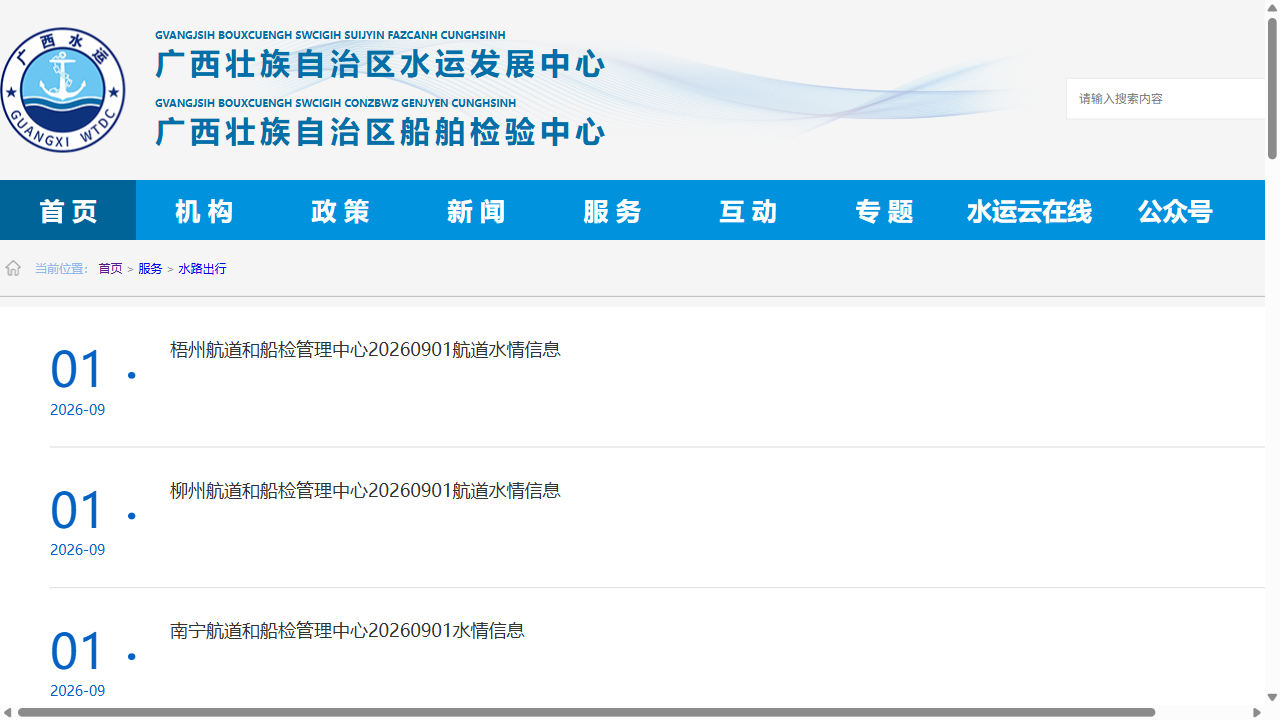
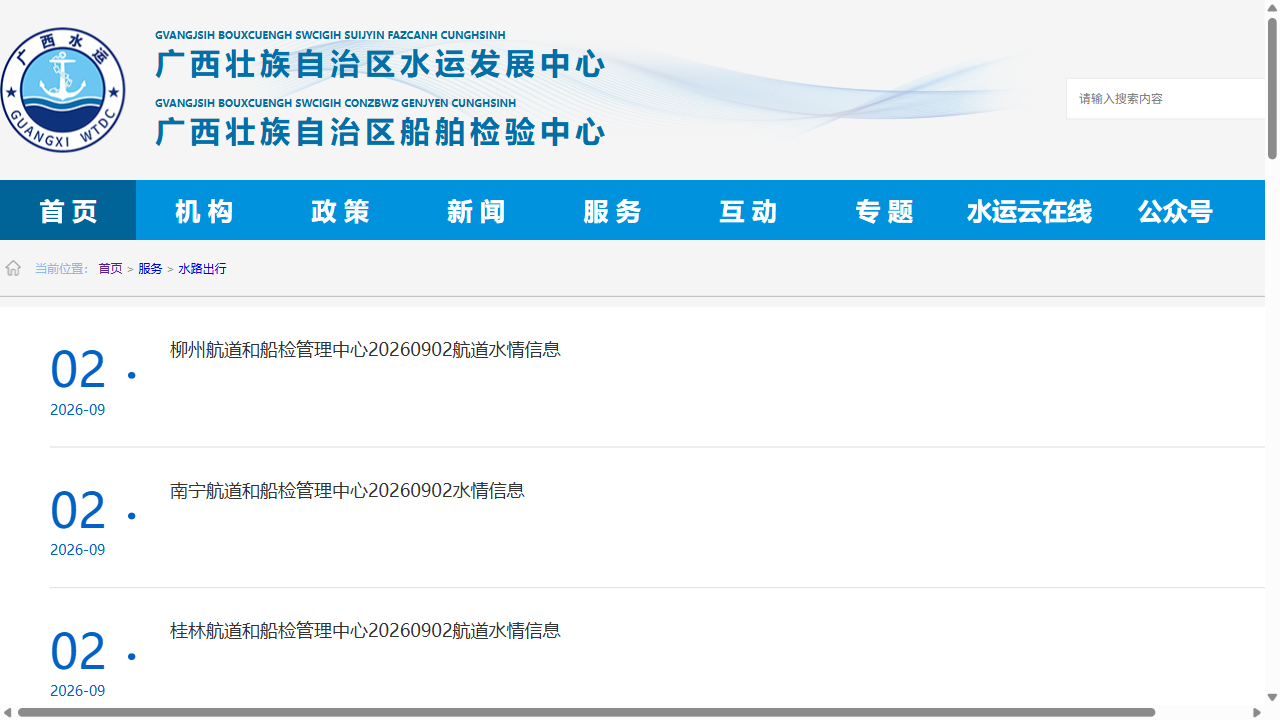
数据层面将水位上升下降情况标记为1与0，方便后续进行统计预测

diff --git a/water_level_report.html b/water_level_report.html
@@ -67,7 +67,7 @@
 </head>
 <body>
     <div class="container">
-        <h1>广西壮族自治区水位数据可视化报告</h1>
+        <h1>西江流域水位数据可视化报告</h1>
         
         <div class="chart-section">
             <div class="chart-container">
@@ -92,6 +92,16 @@
                 <tbody>
 
                     <tr>
+                        <td>2026-08-31 08:00</td>
+                        <td>12.81</td>
+                        <td>27.08</td>
+                        <td>44.254</td>
+                        <td>59.09</td>
+                        <td>59.94</td>
+                        <td>64.242</td>
+                    </tr>
+
+                    <tr>
                         <td>2026-09-01 08:00</td>
                         <td>12.72</td>
                         <td>26.32</td>
@@ -101,13 +111,23 @@
                         <td>62.939</td>
                     </tr>
 
+                    <tr>
+                        <td>2026-09-02 8:00</td>
+                        <td>11.36</td>
+                        <td>24.43</td>
+                        <td>36.88</td>
+                        <td>58.48</td>
+                        <td>59.13</td>
+                        <td>62.306</td>
+                    </tr>
+
                 </tbody>
             </table>
         </div>
         
         <div class="timestamp">
-            报告生成时间: 2026-09-01 16:48:28<br>
-            数据记录数: 1 条
+            报告生成时间: 2026-09-02 10:46:10<br>
+            数据记录数: 3 条
         </div>
     </div>
     
@@ -116,11 +136,11 @@
         new Chart(ctx, {
             type: 'line',
             data: {
-                labels: ["2026-09-01 08:00"],
+                labels: ["2026-08-31 08:00", "2026-09-01 08:00", "2026-09-02 8:00"],
                 datasets: [
                 {
                     label: '梧州',
-                    data: [12.72],
+                    data: [12.81, 12.72, 11.36],
                     borderColor: 'rgb(255, 99, 132)',
                     backgroundColor: 'rgb(255, 99, 132)',
                     tension: 0.1,
@@ -128,7 +148,7 @@
                 },
                 {
                     label: '江口',
-                    data: [26.32],
+                    data: [27.08, 26.32, 24.43],
                     borderColor: 'rgb(54, 162, 235)',
                     backgroundColor: 'rgb(54, 162, 235)',
                     tension: 0.1,
@@ -136,7 +156,7 @@
                 },
                 {
                     label: '贵港',
-                    data: [41.645],
+                    data: [44.254, 41.645, 36.88],
                     borderColor: 'rgb(255, 205, 86)',
                     backgroundColor: 'rgb(255, 205, 86)',
                     tension: 0.1,
@@ -144,7 +164,7 @@
                 },
                 {
                     label: '武宣',
-                    data: [59.12],
+                    data: [59.09, 59.12, 58.48],
                     borderColor: 'rgb(75, 192, 192)',
                     backgroundColor: 'rgb(75, 192, 192)',
                     tension: 0.1,
@@ -152,7 +172,7 @@
                 },
                 {
                     label: '来宾',
-                    data: [59.39],
+                    data: [59.94, 59.39, 59.13],
                     borderColor: 'rgb(153, 102, 255)',
                     backgroundColor: 'rgb(153, 102, 255)',
                     tension: 0.1,
@@ -160,7 +180,7 @@
                 },
                 {
                     label: '峦城',
-                    data: [62.939],
+                    data: [64.242, 62.939, 62.306],
                     borderColor: 'rgb(255, 159, 64)',
                     backgroundColor: 'rgb(255, 159, 64)',
                     tension: 0.1,

diff --git a/screenshot.py b/screenshot.py
@@ -257,13 +257,15 @@ def parse_water_level_data(html_content, publish_date):
                     water_level = cells[2].get_text(strip=True)
                     change_value = cells[3].get_text(strip=True)
                     
-                    # 将变化值转换为符号
-                    if change_value.startswith('0.000'):
-                        change_symbol = '↑'
-                    elif change_value.startswith('-'):
-                        change_symbol = '↓'
-                    else:
-                        change_symbol = '↑'
+                    # 将变化值转换为数字：1表示上升，0表示持平或下降
+                    try:
+                        change_num = float(change_value)
+                        if change_num > 0:
+                            change_value_num = 1  # 上升
+                        else:
+                            change_value_num = 0  # 持平或下降
+                    except (ValueError, TypeError):
+                        change_value_num = 0  # 无法解析时默认为0
                     
                     # 组合完整日期时间
                     full_datetime = f"{publish_date} {observation_time}"
@@ -272,7 +274,7 @@ def parse_water_level_data(html_content, publish_date):
                     results[station_name] = {
                         '站名': station_name,
                         '水位': water_level,
-                        '变化': change_symbol,
+                        '变化': change_value_num,
                         '时间': full_datetime
                     }
     
@@ -303,12 +305,12 @@ def main():
         page.screenshot(path=screenshot_path)
         print(f"列表页截图已保存到: {screenshot_path}")
         
-        # 获取前3条新闻链接
+        # 获取前4条新闻链接
         links = page.locator('.newsList li')
         link_count = links.count()
         
         # 只处理前3条或实际存在的链接数
-        num_links = min(3, link_count)
+        num_links = min(4, link_count)
         
         # 使用字典存储所有数据，站名为键
         all_water_data = {}
@@ -367,9 +369,10 @@ def main():
         
         for station_name in sorted(all_water_data.keys()):
             data = all_water_data[station_name]
+            change_desc = "上升" if data['变化'] == 1 else "持平或下降"
             print(f"站名: {data['站名']}")
             print(f"水位: {data['水位']} 米")
-            print(f"变化: {data['变化']}")
+            print(f"变化: {data['变化']} ({change_desc})")
             print(f"时间: {data['时间']}")
             print("-" * 60)
         
